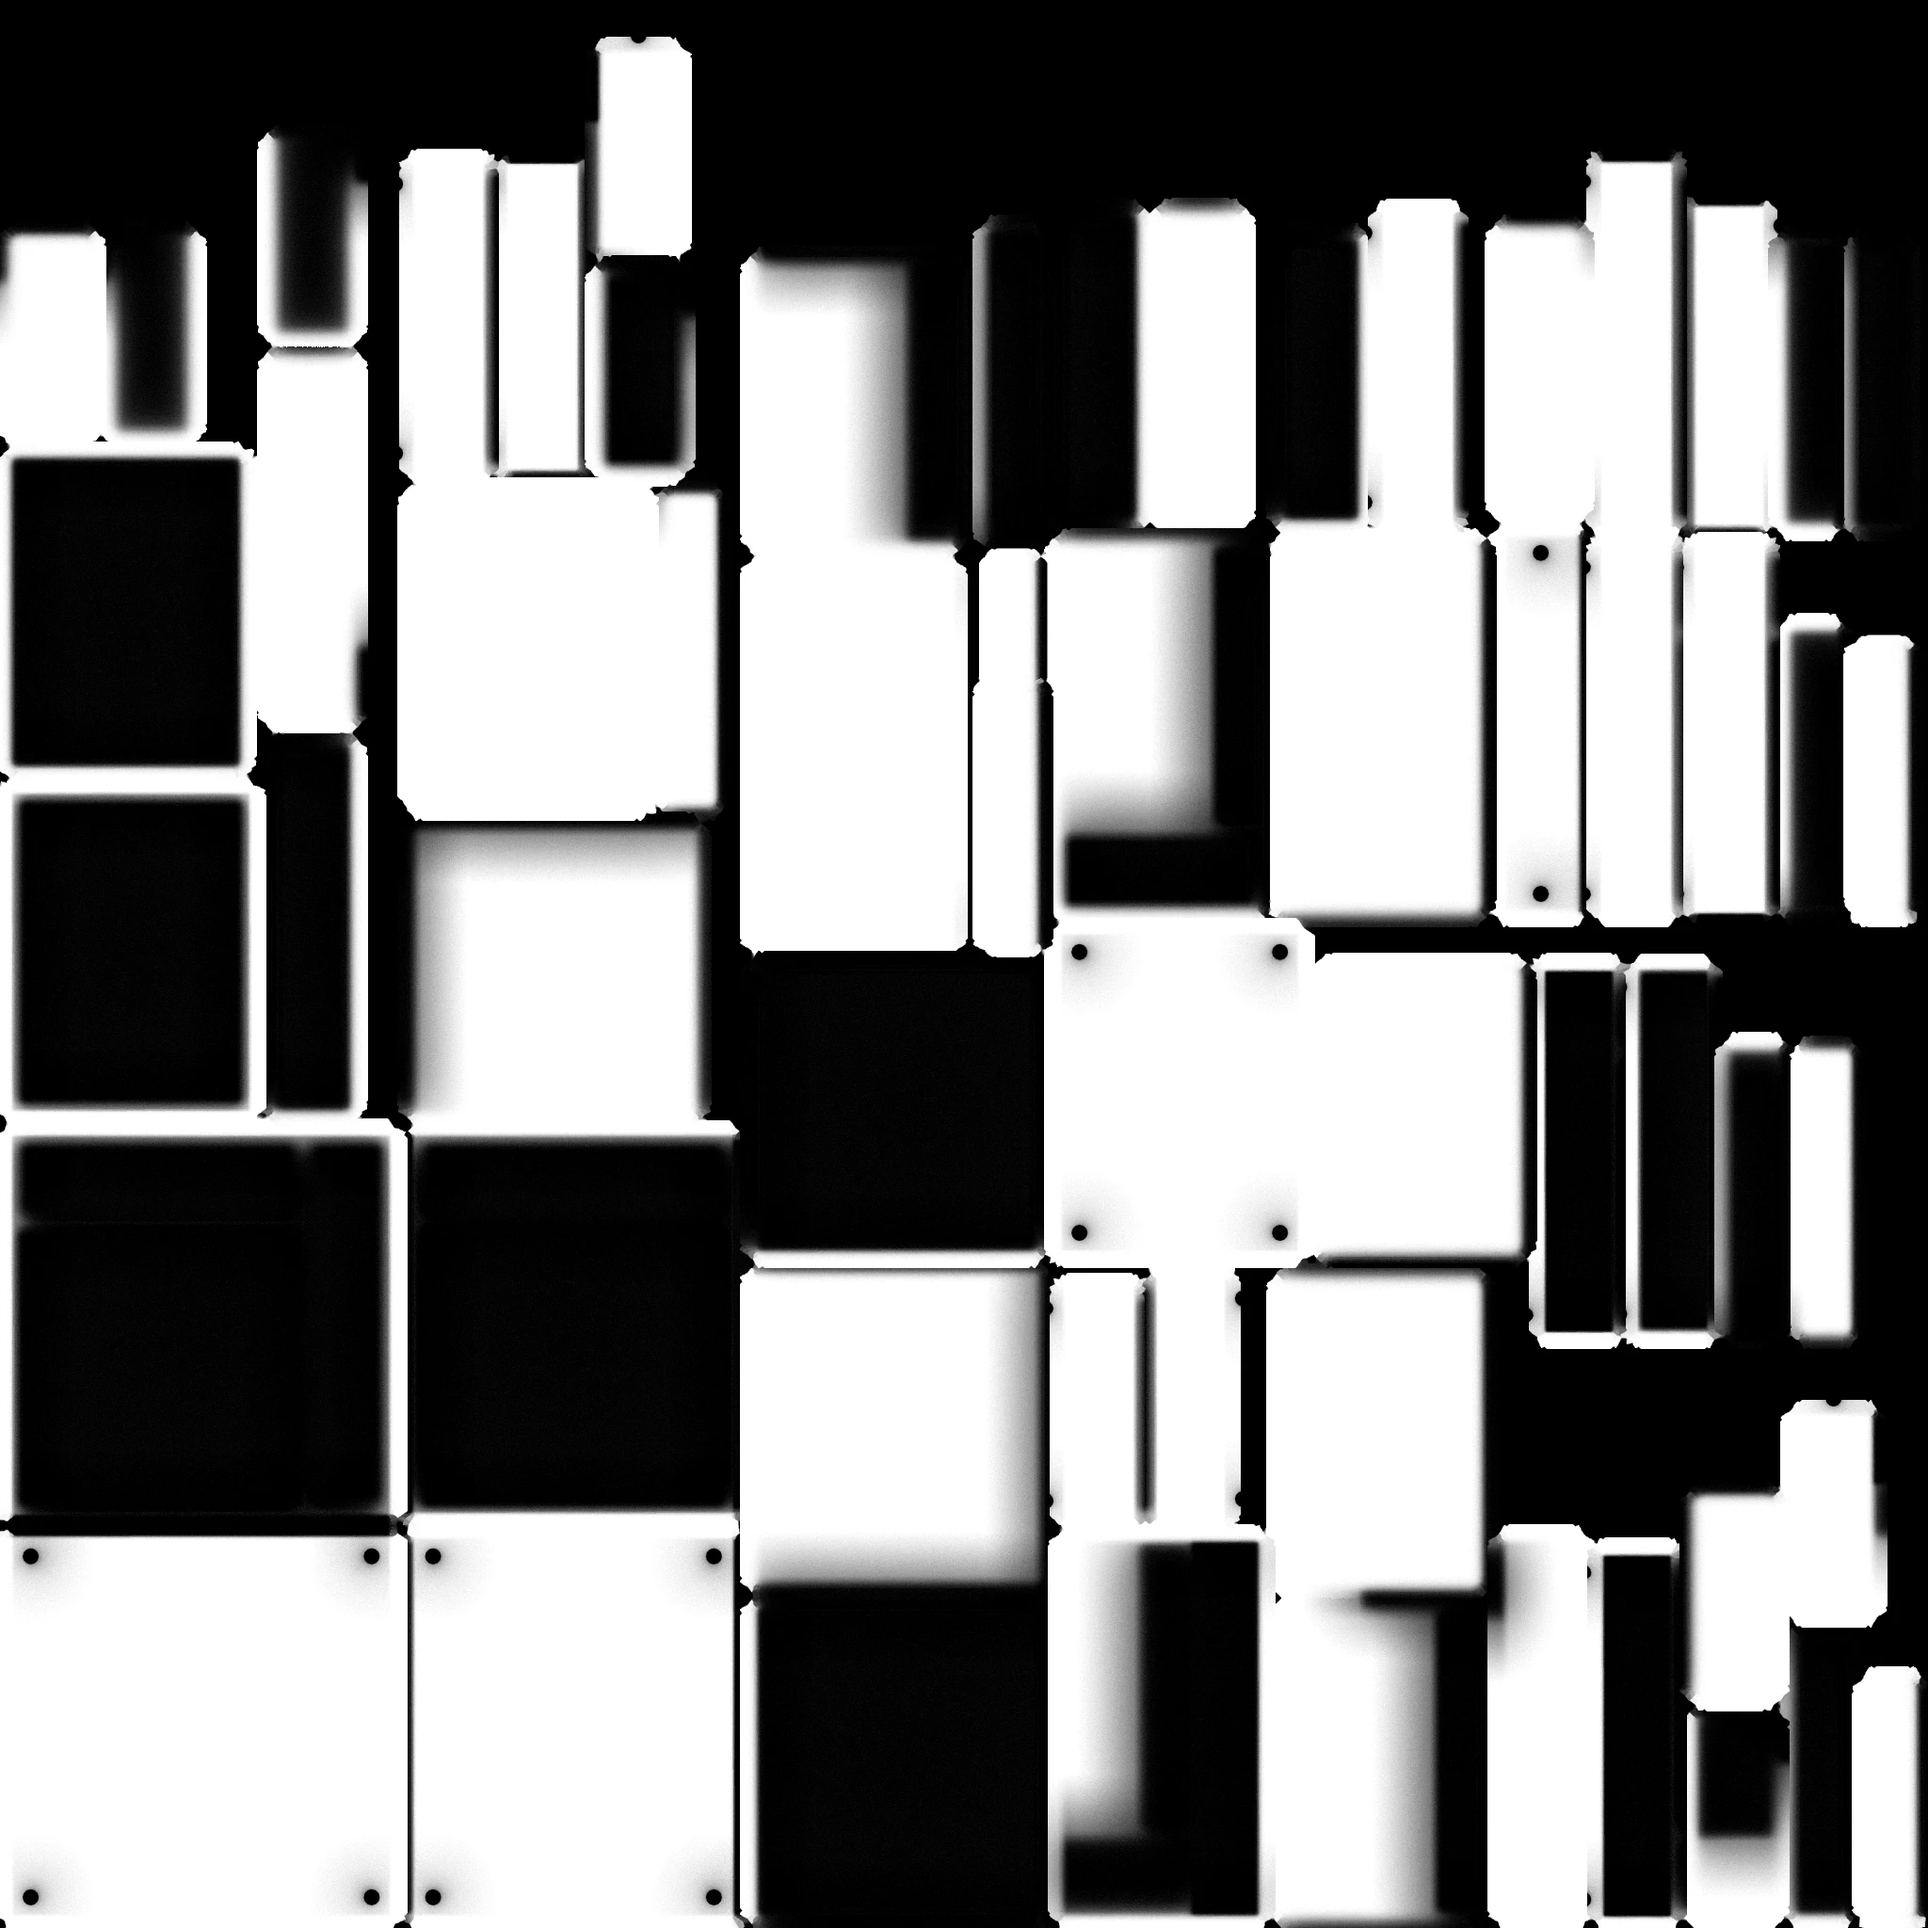
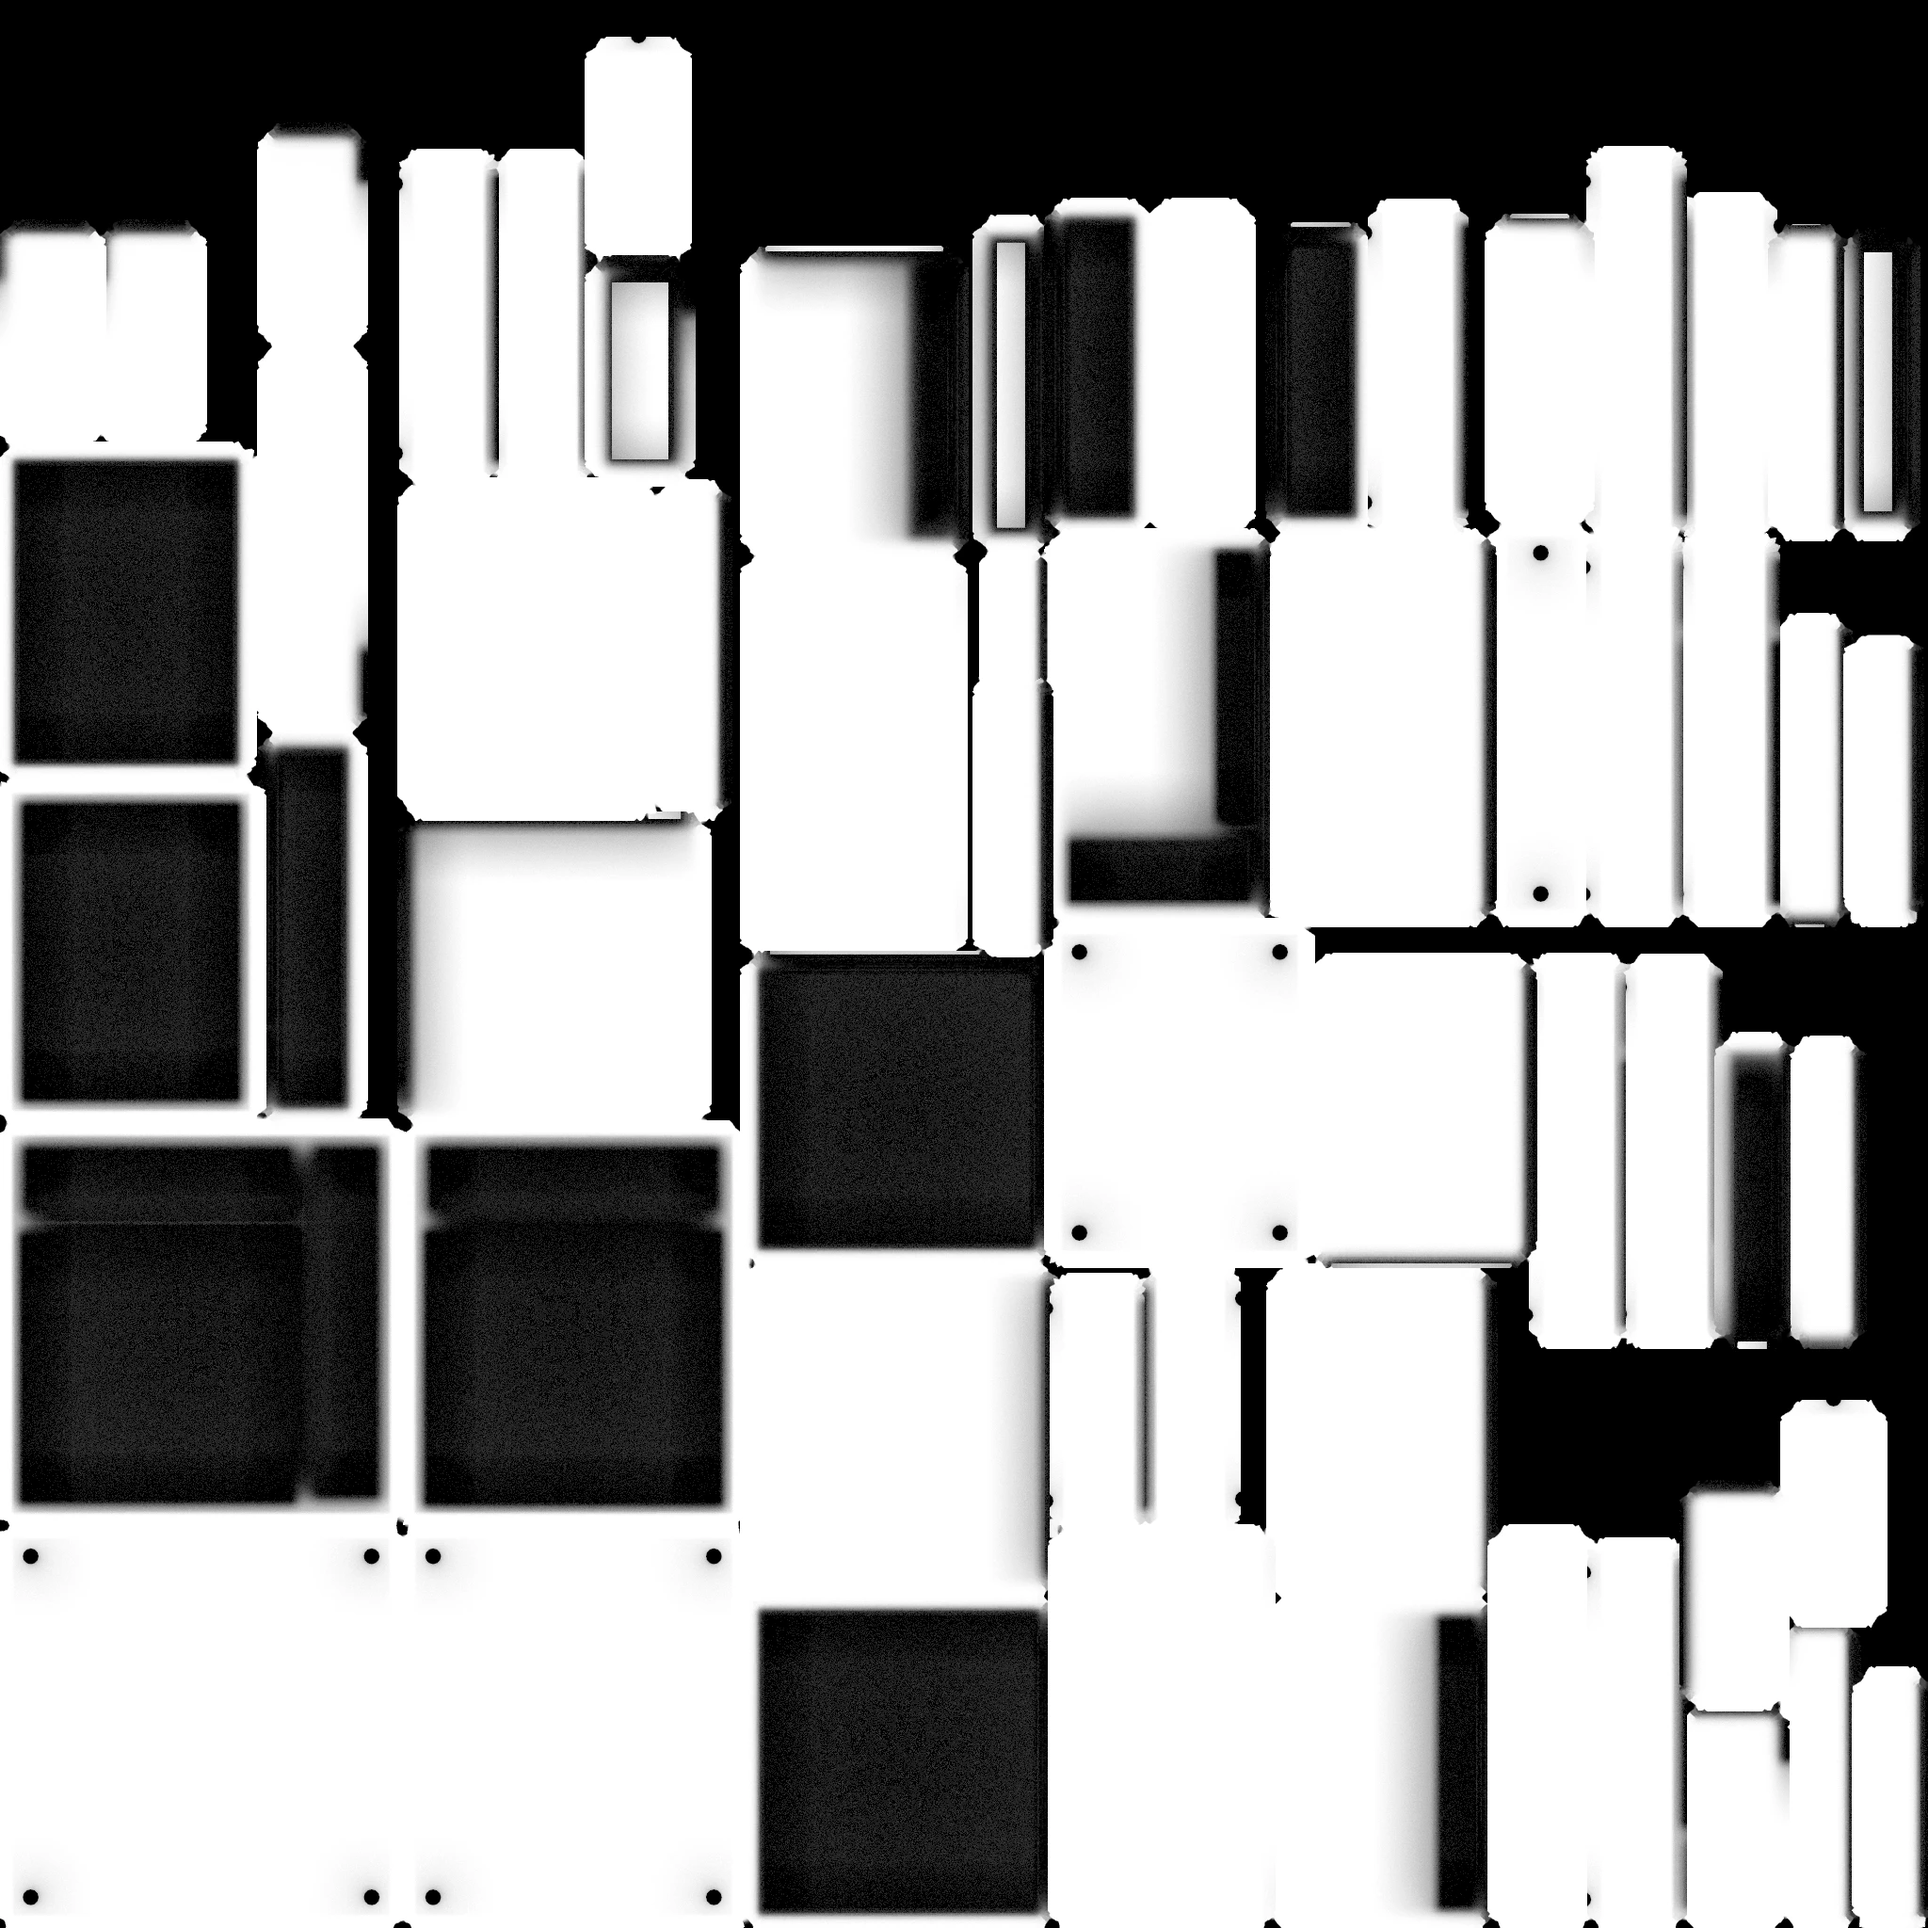
feat: Give each fabric group its own weave, roughness and sheen

Changed region(s): [[0.0, 0.0312, 1.0, 1.0], [0.9688, 0.7188, 1.0, 0.8125], [0.0, 0.9688, 0.0312, 1.0]]

diff --git a/src/scene/Weave.tsx b/src/scene/Weave.tsx
@@ -1,0 +1,110 @@
+import { useTexture } from '@react-three/drei';
+import { useThree } from '@react-three/fiber';
+import { useLayoutEffect } from 'react';
+import { NoColorSpace, RepeatWrapping, type MeshPhysicalMaterial } from 'three';
+
+import type { Weave as WeaveName } from '@/lib/data';
+
+/** Normal maps of the three weaves (ambientCG, CC0), 1024 px, tiling. Only the relief is used; color comes from the catalog. */
+const NORMAL_MAPS: Record<WeaveName, string> = {
+  linen: '/textures/linen/linen_normal.jpg',
+  boucle: '/textures/boucle/boucle_normal.jpg',
+  velvet: '/textures/velvet/velvet_normal.jpg',
+};
+
+/**
+ * What makes each weave read as itself.
+ * - repeat: times the texture repeats per meter of fabric; higher is finer.
+ * - relief: depth of the weave (normal scale).
+ * - roughness: 0–1.
+ * - sheen: 0–1; soft glow of the fibers at glancing angles. Never 0, so the
+ *   shader never has to change between fabrics.
+ * - sheenRoughness: 0–1; how wide that glow spreads.
+ */
+const WEAVES: Record<
+  WeaveName,
+  {
+    repeat: number;
+    relief: number;
+    roughness: number;
+    sheen: number;
+    sheenRoughness: number;
+  }
+> = {
+  linen: {
+    repeat: 2.5,
+    relief: 0.7,
+    roughness: 1,
+    sheen: 0.5,
+    sheenRoughness: 0.7,
+  },
+  boucle: {
+    repeat: 3,
+    relief: 1.2,
+    roughness: 1,
+    sheen: 0.5,
+    sheenRoughness: 0.7,
+  },
+  velvet: {
+    repeat: 1,
+    relief: 3,
+    roughness: 0.75,
+    sheen: 1,
+    sheenRoughness: 0.3,
+  },
+};
+
+/** Sharper weave at glancing angles, capped: more costs fill rate on phones and shows nothing. */
+const MAX_ANISOTROPY = 8;
+
+interface Props {
+  /** The model's one fabric material. */
+  material: MeshPhysicalMaterial;
+  weave: WeaveName;
+}
+
+/**
+ * Makes the fabric read as linen, bouclé or velvet: a tiling normal map for
+ * the weave and its own roughness and sheen. All three maps load up front,
+ * so changing fabric only swaps a texture and numbers on the material that
+ * is already there, with no shader to compile.
+ */
+export const Weave: React.FC<Props> = ({ material, weave }) => {
+  const maps = useTexture(NORMAL_MAPS);
+  const gl = useThree((state) => state.gl);
+  const invalidate = useThree((state) => state.invalidate);
+
+  // Once: how the maps are read.
+  useLayoutEffect(() => {
+    const anisotropy = Math.min(
+      MAX_ANISOTROPY,
+      gl.capabilities.getMaxAnisotropy(),
+    );
+    for (const name of Object.keys(maps) as WeaveName[]) {
+      const map = maps[name];
+      map.wrapS = map.wrapT = RepeatWrapping;
+      // The model's first UV set is in meters, so this is repeats per meter.
+      map.repeat.setScalar(WEAVES[name].repeat);
+      map.colorSpace = NoColorSpace; // a normal map is data, not a color
+      map.flipY = false; // the model's UVs start at the top left, like every glTF
+      map.anisotropy = anisotropy;
+      map.needsUpdate = true;
+    }
+  }, [maps, gl]);
+
+  useLayoutEffect(() => {
+    const { relief, roughness, sheen, sheenRoughness } = WEAVES[weave];
+    // First time only, a material that gets a normal map compiles its shader
+    // again; that happens behind the loading screen.
+    if (!material.normalMap) material.needsUpdate = true;
+    material.normalMap = maps[weave];
+    // Y is flipped, as GLTFLoader does for models without tangents.
+    material.normalScale.set(relief, -relief);
+    material.roughness = roughness;
+    material.sheen = sheen;
+    material.sheenRoughness = sheenRoughness;
+    invalidate();
+  }, [maps, weave, material, invalidate]);
+
+  return null;
+};

diff --git a/src/lib/data/schema.ts b/src/lib/data/schema.ts
@@ -1,5 +1,8 @@
 import { z } from 'zod';
 
+/** The fabric weaves the 3D scene has textures for (public/textures/<weave>/). */
+export const WEAVES = ['linen', 'boucle', 'velvet'] as const;
+
 /** The option groups the panel and the 3D scene know about, in no particular order (see `order`). */
 export const GROUP_KEYS = [
   'layout',
@@ -43,7 +46,7 @@ const metaSchema = z.strictObject({
   /** Fabric quality group, shown in the price lines. */
   tier: z.string().min(1).optional(),
   /** Weave texture, shared by a tier. */
-  texture: z.string().min(1).optional(),
+  texture: z.enum(WEAVES).optional(),
   /** Centimeters; outer width and depth of a layout, shown next to the sofa. */
   widthCm: z.number().int().positive().optional(),
   depthCm: z.number().int().positive().optional(),
@@ -116,9 +119,9 @@ export const catalogSchema = z
       }
       if (
         option.groupKey === 'fabric' &&
-        (!option.meta.color || !option.meta.tier)
+        (!option.meta.color || !option.meta.tier || !option.meta.texture)
       ) {
-        issue(`fabric "${option.key}" needs meta.color and meta.tier`, [
+        issue(`fabric "${option.key}" needs meta.color, tier and texture`, [
           'options',
           i,
           'meta',

diff --git a/src/scene/lib/look.ts b/src/scene/lib/look.ts
@@ -1,4 +1,4 @@
-import type { Catalog, Selection } from '@/lib/data';
+import type { Catalog, Selection, Weave } from '@/lib/data';
 
 /**
  * Everything the 3D sofa needs to draw a selection, and nothing about prices:
@@ -11,6 +11,8 @@ export interface SofaLook {
   legs: string;
   legsColor: string;
   fabricColor: string;
+  /** Which weave texture the fabric uses. */
+  weave: Weave;
   ottoman: boolean;
 }
 
@@ -29,6 +31,7 @@ export function toLook(catalog: Catalog, selection: Selection): SofaLook {
     legs: need(legs.node, 'legs node'),
     legsColor: need(legs.color, 'legs color'),
     fabricColor: need(fabric.color, 'fabric color'),
+    weave: need(fabric.texture, 'fabric weave'),
     // The ottoman option that shows one is the one pointing at a model node.
     ottoman: meta(selection.ottoman).node !== undefined,
   };

diff --git a/src/lib/data/types.ts b/src/lib/data/types.ts
@@ -1,6 +1,6 @@
 import type { z } from 'zod';
 
-import type { GROUP_KEYS, catalogSchema } from './schema';
+import type { GROUP_KEYS, WEAVES, catalogSchema } from './schema';
 
 /*
  * Types are written once, as the Zod schema in ./schema.ts, and inferred here,
@@ -16,6 +16,7 @@ export type Option = Catalog['options'][number];
 export type Rule = Catalog['rules'][number];
 
 export type GroupKey = (typeof GROUP_KEYS)[number];
+export type Weave = (typeof WEAVES)[number];
 
 /** One option key per group: exactly what goes into the share link. */
 export type Selection = Readonly<Record<GroupKey, string>>;

diff --git a/src/scene/Sofa.tsx b/src/scene/Sofa.tsx
@@ -6,6 +6,7 @@ import { NoColorSpace } from 'three';
 import { Assemble } from './Assemble';
 import type { SofaLook } from './lib/look';
 import { findSofaParts } from './lib/parts';
+import { Weave } from './Weave';
 
 const MODEL = {
   url: '/models/sofa/sofa.glb',
@@ -61,6 +62,7 @@ export const Sofa: React.FC<Props> = ({ look }) => {
   return (
     <>
       <primitive object={scene} />
+      <Weave material={parts.fabric} weave={look.weave} />
       {layout && <Assemble layout={layout} />}
     </>
   );

diff --git a/src/scene/Lighting.tsx b/src/scene/Lighting.tsx
@@ -4,9 +4,9 @@ const ENVIRONMENT = {
   /** Interior HDRI (ambientCG, CC0): 1K, RGB half float, DWAA. Light and reflections only, never shown. */
   url: '/environment/indoor.exr',
   /** Strength of the room light. */
-  intensity: 1.2,
+  intensity: 1.8,
   /** Radians; the room turned a quarter around the sofa so the window light falls from the side. */
-  rotation: [0, Math.PI / 2, 0] as [number, number, number],
+  rotation: [5, Math.PI / 2, 0] as [number, number, number],
 };
 
 const SHADOW = {

diff --git a/src/scene/lib/look.test.ts b/src/scene/lib/look.test.ts
@@ -23,6 +23,7 @@ describe('toLook()', () => {
       legs: 'legs_metal',
       legsColor: '#1c1c1c',
       fabricColor: '#2f3a56',
+      weave: 'velvet',
       ottoman: true,
     });
   });
